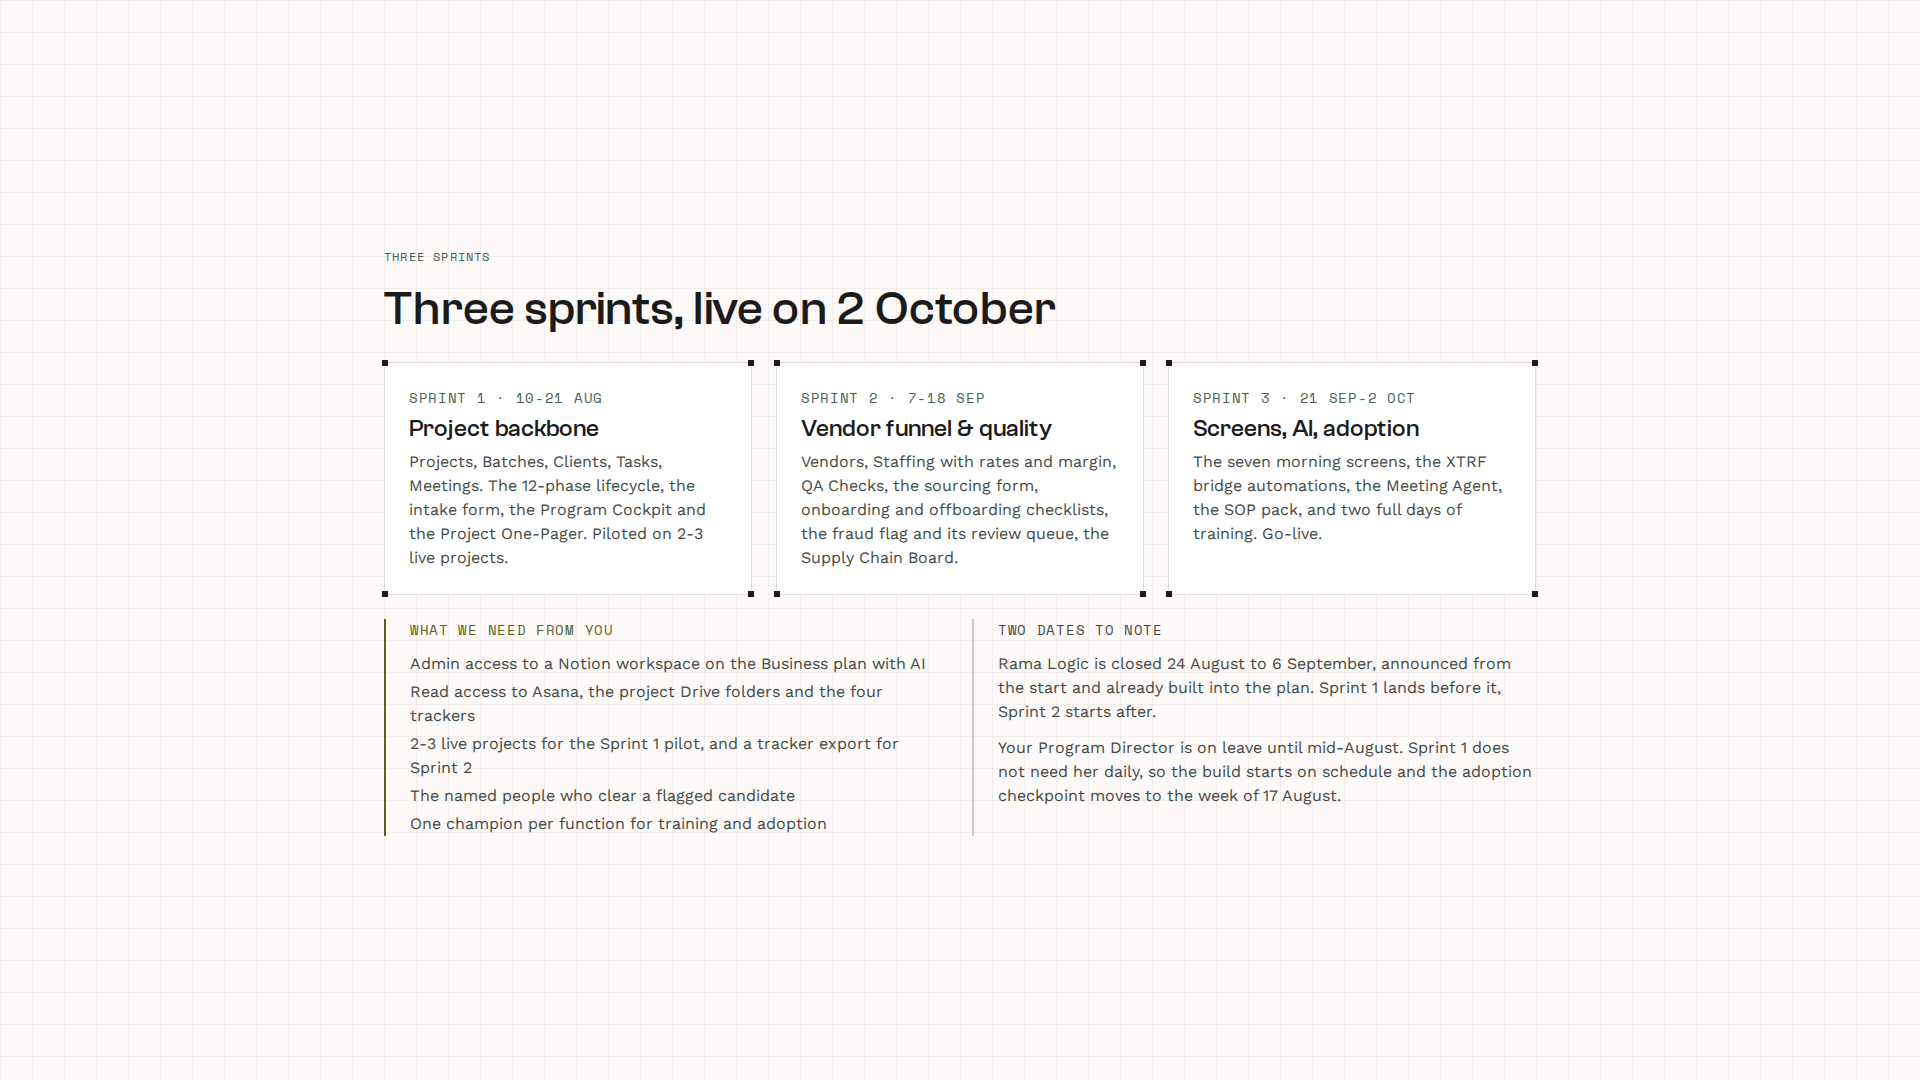
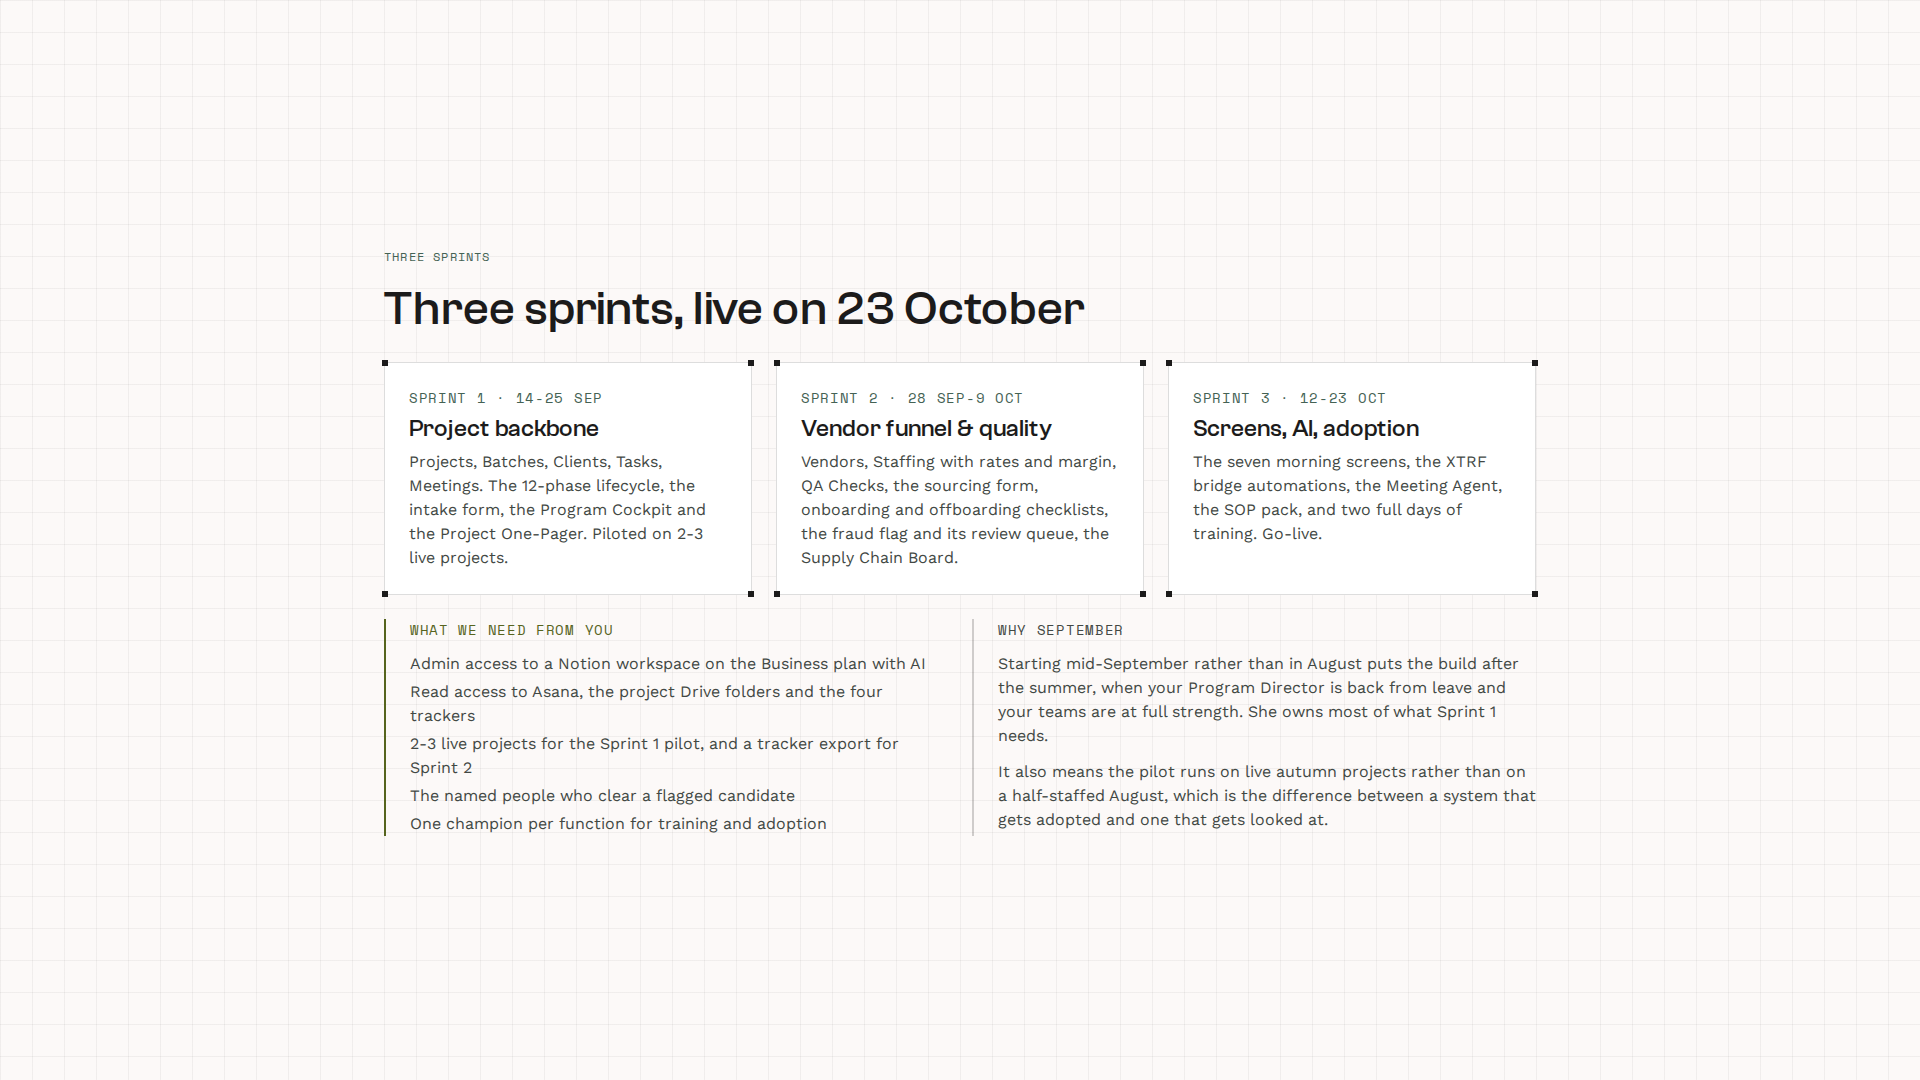
Argos deck: sprints shifted to mid-September, go-live 23 October

Changed region(s): [[0.5, 0.5806, 0.8125, 0.7639], [0.4375, 0.275, 0.5625, 0.3056], [0.6875, 0.3667, 0.7188, 0.3972]]

diff --git a/webpages/decks/2026-08-03_argos-phase2_k7m2q4/index.html b/webpages/decks/2026-08-03_argos-phase2_k7m2q4/index.html
@@ -618,20 +618,20 @@ body.show-all .nav-controls{display:none !important;}
 <section class="slide grid-bg items-center p-margin" data-slide="18">
   <div class="max-w-6xl w-full mx-auto">
     <span class="font-eyebrow text-eyebrow text-primary tracking-widest uppercase">Three sprints</span>
-    <h2 class="font-headline-md text-headline-md mt-sm mb-md">Three sprints, live on 2 October</h2>
+    <h2 class="font-headline-md text-headline-md mt-sm mb-md">Three sprints, live on 23 October</h2>
     <div class="grid md:grid-cols-3 gap-gutter mb-md">
       <div class="relative sock border border-on-background/15 p-md bg-surface-container-lowest"><span class="s3"></span><span class="s4"></span>
-        <p class="font-code-label text-code-label text-primary uppercase">Sprint 1 · 10-21 Aug</p>
+        <p class="font-code-label text-code-label text-primary uppercase">Sprint 1 · 14-25 Sep</p>
         <p class="font-title-sm text-title-sm my-xs">Project backbone</p>
         <p class="text-on-surface-variant">Projects, Batches, Clients, Tasks, Meetings. The 12-phase lifecycle, the intake form, the Program Cockpit and the Project One-Pager. Piloted on 2-3 live projects.</p>
       </div>
       <div class="relative sock border border-on-background/15 p-md bg-surface-container-lowest"><span class="s3"></span><span class="s4"></span>
-        <p class="font-code-label text-code-label text-primary uppercase">Sprint 2 · 7-18 Sep</p>
+        <p class="font-code-label text-code-label text-primary uppercase">Sprint 2 · 28 Sep-9 Oct</p>
         <p class="font-title-sm text-title-sm my-xs">Vendor funnel &amp; quality</p>
         <p class="text-on-surface-variant">Vendors, Staffing with rates and margin, QA Checks, the sourcing form, onboarding and offboarding checklists, the fraud flag and its review queue, the Supply Chain Board.</p>
       </div>
       <div class="relative sock border border-on-background/15 p-md bg-surface-container-lowest"><span class="s3"></span><span class="s4"></span>
-        <p class="font-code-label text-code-label text-primary uppercase">Sprint 3 · 21 Sep-2 Oct</p>
+        <p class="font-code-label text-code-label text-primary uppercase">Sprint 3 · 12-23 Oct</p>
         <p class="font-title-sm text-title-sm my-xs">Screens, AI, adoption</p>
         <p class="text-on-surface-variant">The seven morning screens, the XTRF bridge automations, the Meeting Agent, the SOP pack, and two full days of training. Go-live.</p>
       </div>
@@ -648,9 +648,9 @@ body.show-all .nav-controls{display:none !important;}
         </ul>
       </div>
       <div class="border-l-2 border-on-background/20 pl-md">
-        <p class="font-code-label text-code-label text-on-surface-variant uppercase mb-sm">Two dates to note</p>
-        <p class="text-on-surface-variant mb-sm">Rama Logic is closed 24 August to 6 September, announced from the start and already built into the plan. Sprint 1 lands before it, Sprint 2 starts after.</p>
-        <p class="text-on-surface-variant">Your Program Director is on leave until mid-August. Sprint 1 does not need her daily, so the build starts on schedule and the adoption checkpoint moves to the week of 17 August.</p>
+        <p class="font-code-label text-code-label text-on-surface-variant uppercase mb-sm">Why September</p>
+        <p class="text-on-surface-variant mb-sm">Starting mid-September rather than in August puts the build after the summer, when your Program Director is back from leave and your teams are at full strength. She owns most of what Sprint 1 needs.</p>
+        <p class="text-on-surface-variant">It also means the pilot runs on live autumn projects rather than on a half-staffed August, which is the difference between a system that gets adopted and one that gets looked at.</p>
       </div>
     </div>
   </div>
@@ -677,7 +677,7 @@ body.show-all .nav-controls{display:none !important;}
         <div class="md:col-span-6">
           <p class="font-code-label text-code-label text-secondary uppercase mb-sm">Everything in the fee</p>
           <p>8 databases, the 12-phase lifecycle and the vendor funnel, 10 automations, the seven morning screens, the Meeting Agent, the fraud review queue, the SOP pack, two full days of training, and a 30-day adoption window under the 100% adoption guarantee.</p>
-          <p class="font-code-label text-code-label text-outline uppercase mt-sm">Go-live 2 October 2026</p>
+          <p class="font-code-label text-code-label text-outline uppercase mt-sm">Go-live 23 October 2026</p>
         </div>
       </div>
       <div class="mt-md pt-sm border-t border-on-background/10">
@@ -705,8 +705,8 @@ body.show-all .nav-controls{display:none !important;}
     <p class="font-title-sm text-title-sm text-on-surface-variant max-w-3xl">Thank you to the nine of you who gave three hours of honesty, and to Melina and Valeria for walking me through the systems underneath. That is the raw material this proposal is built on.</p>
     <div class="grid md:grid-cols-3 gap-md mt-lg pt-md border-t border-outline-variant">
       <div><p class="font-code-label text-code-label text-primary uppercase">Decision</p><p>Green light on Phase 2</p></div>
-      <div><p class="font-code-label text-code-label text-primary uppercase">Kickoff</p><p>Week of 10 August</p></div>
-      <div><p class="font-code-label text-code-label text-primary uppercase">Go-live</p><p>2 October 2026</p></div>
+      <div><p class="font-code-label text-code-label text-primary uppercase">Kickoff</p><p>Week of 14 September</p></div>
+      <div><p class="font-code-label text-code-label text-primary uppercase">Go-live</p><p>23 October 2026</p></div>
     </div>
     <p class="font-code-label text-code-label text-tertiary uppercase tracking-wider mt-md">Sylvain Ramaradjou · sylvain@ramalogic.com · Rama Logic</p>
     <p class="font-code-label text-code-label text-outline uppercase mt-xs">Notion Solution Partner · PMP® · Black Belt Lean Six Sigma</p>
